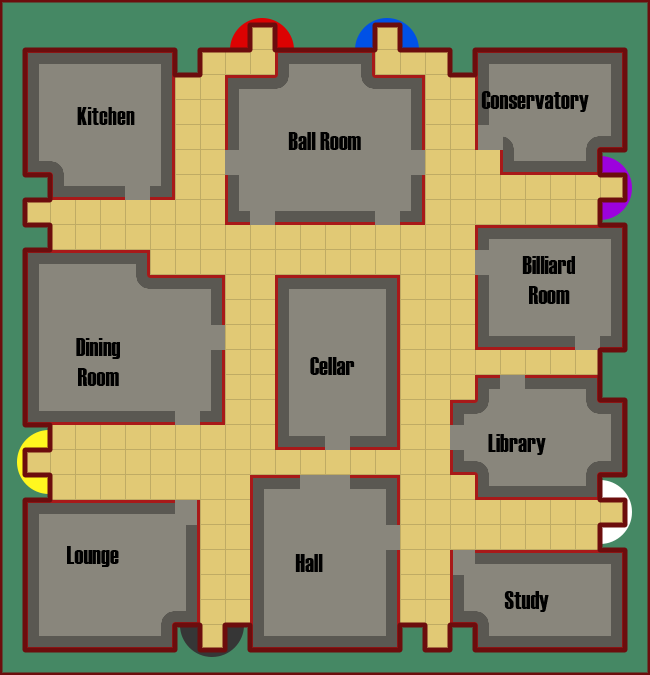
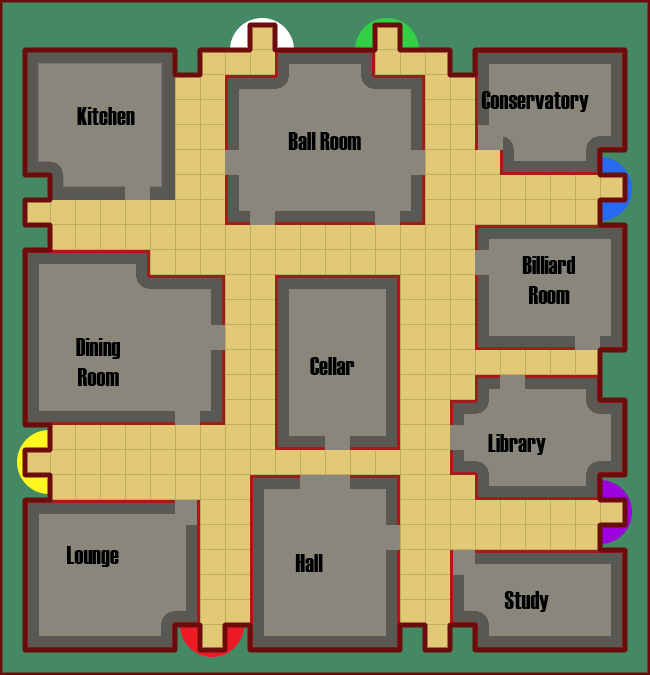
Added Weapons to the screen

diff --git a/src/com/Team11/Cluedo/UI/GameScreen.java b/src/com/Team11/Cluedo/UI/GameScreen.java
@@ -12,6 +12,7 @@ package com.Team11.Cluedo.UI;
 import com.Team11.Cluedo.Board.Board;
 import com.Team11.Cluedo.Suspects.Players;
 import com.Team11.Cluedo.UI.Panel.BackgroundPanel;
+import com.Team11.Cluedo.Weapons;
 
 import javax.swing.*;
 import javax.swing.border.TitledBorder;
@@ -31,10 +32,12 @@ public class GameScreen implements Screen {
 
     private Players gamePlayers;
     private Board gameBoard;
+    private Weapons gameWeapons;
 
-    public GameScreen(Players gamePlayers, Board gameBoard) throws IOException{
+    public GameScreen(Players gamePlayers, Board gameBoard, Weapons gameWeapons) throws IOException{
         this.gamePlayers = gamePlayers;
         this.gameBoard = gameBoard;
+        this.gameWeapons = gameWeapons;
 
         this.createScreen();
         this.setupScreen();
@@ -78,7 +81,7 @@ public class GameScreen implements Screen {
         gbc.fill = GridBagConstraints.BOTH;
         contentPanel.add(infoPanel, gbc);
 
-        this.boardPanel = new BoardUI(this.gamePlayers, this.gameBoard, new BoardComponent());
+        this.boardPanel = new BoardUI(this.gamePlayers, this.gameBoard, this.gameWeapons, new BoardComponent());
         gbc.gridx = 0; gbc.gridy = 0;
         gbc.gridwidth = 10; gbc.gridheight = 10;
         gbc.fill = GridBagConstraints.NONE;
@@ -162,39 +165,41 @@ public class GameScreen implements Screen {
     }
 
     public class BoardComponent extends JComponent {
+        @Override
         public void paintComponent(Graphics g) {
             URL in = this.getClass().getResource("Board.png");
-            Graphics2D g2 = (Graphics2D) g;
             Image img1 = Toolkit.getDefaultToolkit().getImage(in);
-            g2.drawImage(img1, 0, 0, this);
-            g2.finalize();
+            g.drawImage(img1, 0, 0, this);
         }
     }
 
     public class BoardUI extends JLayeredPane {
         Players gamePlayers;
         Board gameBoard;
+        Weapons gameWeapons;
         BoardComponent boardComponent;
 
-        public BoardUI(Players players, Board board, BoardComponent boardImage) {
+        public BoardUI(Players players, Board board, Weapons weapons, BoardComponent boardImage) {
             this.gamePlayers = players;
             this.gameBoard = board;
+            this.gameWeapons = weapons;
             this.boardComponent = boardImage;
 
-            this.setLayout(new BorderLayout());
-
-            this.add(this.gameBoard, 0);
-            this.add(this.boardComponent, 1);
-            this.add(this.gamePlayers, 2);
+            this.add(this.gameBoard, new Integer(0));
+            this.add(this.boardComponent, new Integer(1));
+            this.add(this.gamePlayers, new Integer(2));
+            this.add(this.gameWeapons, new Integer(3));
 
             Dimension imageSize = new Dimension(650, 675);
             this.setPreferredSize(imageSize);
         }
 
+        @Override
         public void paint(Graphics g) {
             gameBoard.paintComponent(g);
             boardComponent.paintComponent(g);
-            this.gamePlayers.paintComponent(g);
+            gamePlayers.paintComponent(g);
+            gameWeapons.paintComponent(g);
         }
     }
 }

diff --git a/src/com/Team11/Cluedo/Weapons.java b/src/com/Team11/Cluedo/Weapons.java
@@ -160,18 +160,22 @@ public class Weapons extends JComponent{
             return this.weaponID;
         }
 
+        @Override
         public void setName(String n){
             this.name = n;
         }
 
+        @Override
         public String getName(){
             return this.name;
         }
 
+        @Override
         public void setLocation(Point p){
             this.location = p;
         }
 
+        @Override
         public Point getLocation(){
             return this.location;
         }
@@ -189,7 +193,7 @@ public class Weapons extends JComponent{
             g2.fill(new Ellipse2D.Double((int)this.getLocation().getY()*25, (int)this.getLocation().getX()*25, 20,20));
             g2.setColor(Color.WHITE);
 
-            g2.drawString(this.weaponGraphic,(int)this.getLocation().getY()*25 + 10, (int)this.getLocation().getX()*25 + 10);
+            g2.drawString(this.weaponGraphic,(int)this.getLocation().getY()*25 + 8, (int)this.getLocation().getX()*25 + 14);
 
         }
     }

diff --git a/src/com/Team11/Cluedo/Suspects/Players.java b/src/com/Team11/Cluedo/Suspects/Players.java
@@ -18,7 +18,7 @@ public class Players extends JComponent {
 
     private final Point[] SUSPECT_SPAWN = new Point[]
             {new Point(10,1), new Point(15,1), new Point(24,7),
-             new Point(1,18), new Point(24,20), new Point(8,25)};
+             new Point(24,20), new Point(8,25), new Point(1,18)};
     private final String[] PLAYER_NAME = new String[] {
             "Miss White", "Mr. Green", "Ms. Peacock", "Mr. Plum", "Miss Scarlett", "Colonel Mustard"};
 

diff --git a/src/com/Team11/Cluedo/Cluedo.java b/src/com/Team11/Cluedo/Cluedo.java
@@ -12,7 +12,9 @@ public class Cluedo {
         {
             Board gameBoard = new Board();
             Players gamePlayers = new Players(6);
-            GameScreen gameScreen = new GameScreen(gamePlayers, gameBoard);
+            Weapons gameWeapons = new Weapons();
+
+            GameScreen gameScreen = new GameScreen(gamePlayers, gameBoard, gameWeapons);
             gameScreen.reDraw();
             CommandInput gameInput = new CommandInput(gameScreen);
         }
